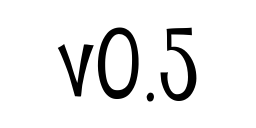
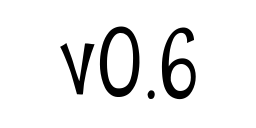
Tweak and version bump

Changed region(s): [[0.2188, 0.1875, 0.5625, 0.7812], [0.5625, 0.1875, 0.7812, 0.8125]]

diff --git a/src/science.js b/src/science.js
@@ -1,10 +1,8 @@
-// final_score.toFixed(2)
 const science_state = {
     container: null,
     canvas: null,
     ui: null,
     create: function() {
-        console.log(game_log);
 
         this.container = document.querySelector("#game-container");
         this.canvas = document.querySelector("#game-container > canvas");
@@ -16,12 +14,12 @@ const science_state = {
 
         let tab_data = "";
 
-        html += `<h1>ID: ${0} Resultat: ${final_score.toFixed(2)} Kjønn: ${"Mann"} Alder: ${6}</h1>\n`;
+        html += `<h1>ID: ${personal_data.ID} Resultat: ${final_score.toFixed(2)} Kjønn: ${personal_data.sex} Alder: ${personal_data.age}</h1>\n`;
         for(let i=0; i<game_log.length; ++i) {
             const log = game_log[i];
             html += `<span class="stat-target">${i+1}. ${log.target}</span><span class="stat-snr">SNR: ${log.SNR.toFixed(2)}</span><span class="stat-result">Svar: ${log.result}</span><span class="stat-time">Tid: ${log.time}s</span><br/>\n`;
 
-            tab_data += `<span class="stat-tab-line">${0};${"Mann"};${6};${final_score.toFixed(2)};${i+1};${log.target};${log.SNR.toFixed(2)};${log.result};${log.time}</span><br/>\n`;
+            tab_data += `<span class="stat-tab-line">${personal_data.ID};${personal_data.sex};${personal_data.age};${final_score.toFixed(2)};${i+1};${log.target};${log.SNR.toFixed(2)};${log.result};${log.time}</span><br/>\n`;
         }
         html += '</div>\n<div id="stat-tab">\n';
 

diff --git a/src/menu.js b/src/menu.js
@@ -1,3 +1,9 @@
+const personal_data = {
+    ID: 0,  // ID is generated when the game starts
+    age: 0,
+    sex: "kvinne"
+};
+
 const menu_state = {
     container: null,
     canvas: null,
@@ -36,6 +42,24 @@ const menu_state = {
         this.container.appendChild(this.ui);
 
         document.querySelector("#intro-btn-start").addEventListener("click", () => {
+            const age = document.querySelector("#intro-field-age").value;
+            console.log(age);
+            if(age > 0 && age < 199) {
+                personal_data.age = age;
+            }
+
+            const female_toggle = document.querySelector("#intro-select-sex-female");
+            const male_toggle = document.querySelector("#intro-select-sex-male");
+            if(female_toggle.checked === true && male_toggle.checked === false) {
+                personal_data.sex = "kvinne";
+            }
+            else if(male_toggle.checked === true && female_toggle.checked === false) {
+                personal_data.sex = "mann";
+            }
+            else {
+                personal_data.sex = "n/a"; // Sadly, you need to edit the JS or HTML to escape the binary :( Not my call...
+            }
+
             this.ui.remove();
             audio_clips['noise'].stop();
             game.state.start('game');

diff --git a/src/game.js b/src/game.js
@@ -76,6 +76,17 @@ function get_volume_from_SNR(snr) {
 const game_state = {
     target_word: "",
     create: function() {
+        const storage = window.localStorage;
+        personal_data.ID = storage.getItem('last-id');
+        if(personal_data.ID !== null) {
+            personal_data.ID = Number.parseInt(personal_data.ID) + 1;
+        }
+        else {
+            personal_data.ID = 0;
+        }
+
+        storage.setItem('last-id', personal_data.ID);
+
         num_correct = 0;
 
         this.curr_SNR = INITIAL_SNR;

diff --git a/src/parameters.js b/src/parameters.js
@@ -3,9 +3,9 @@ const STEP_SNR = 2;
 const MIN_SNR = -40;
 const MAX_SNR = 6;
 
-const SEQUENCE_LENGTH = 4;
+const SEQUENCE_LENGTH = 20;
 
-const results_to_count_for_final_score = 3; // The 10 last and the one that would have played next
+const results_to_count_for_final_score = 11; // The 10 last and the one that would have played next
 
 const TIME_BEFORE_TIMER = 8;    // In seconds
 const TIMER_DURATION = 8;       // in seconds.

diff --git a/index.html b/index.html
@@ -2,6 +2,7 @@
 <html lang="en">
 <head>
     <meta charset="UTF-8">
+    <meta name="viewport" content="initial-scale=1, user-scalable=no">
     <title>SINTEF SPA</title>
     <link rel="stylesheet" href="fonts/stylesheet.css">
     <link rel="stylesheet" href="style.css">

diff --git a/src/app.js b/src/app.js
@@ -119,6 +119,7 @@ function preload() {
     game.scale.refresh();
 
     game.stage.backgroundColor = "#FFF";
+    game.stage.disableVisibilityChange = true;
 
     load_image('prog-bar-outline');
     load_image('prog-bar-fill');

diff --git a/style.css b/style.css
@@ -160,8 +160,8 @@ body {
 
 #stat-btn-back {
     position: absolute;
-    right: 16px;
-    bottom: 99px;
+    right: 350px;
+    bottom: 8px;
 }
 
 #stat-btn-reload {
